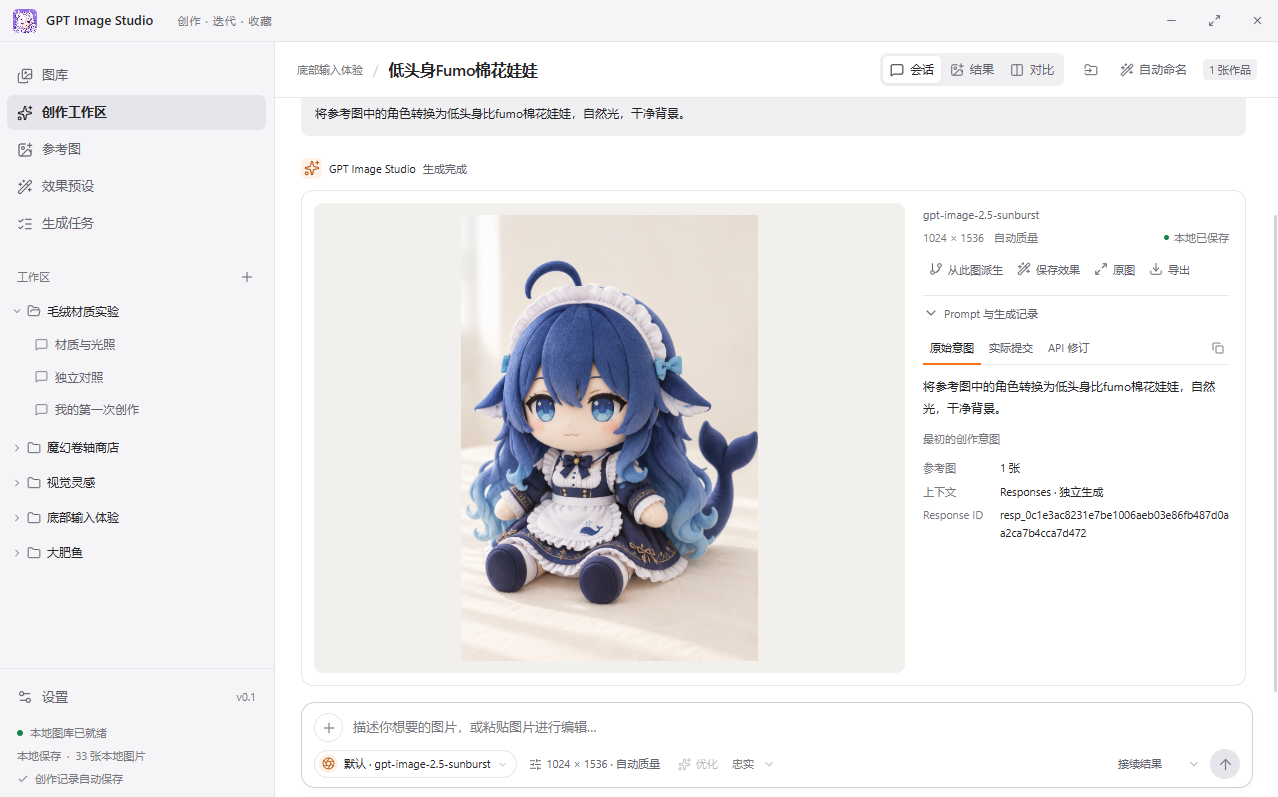
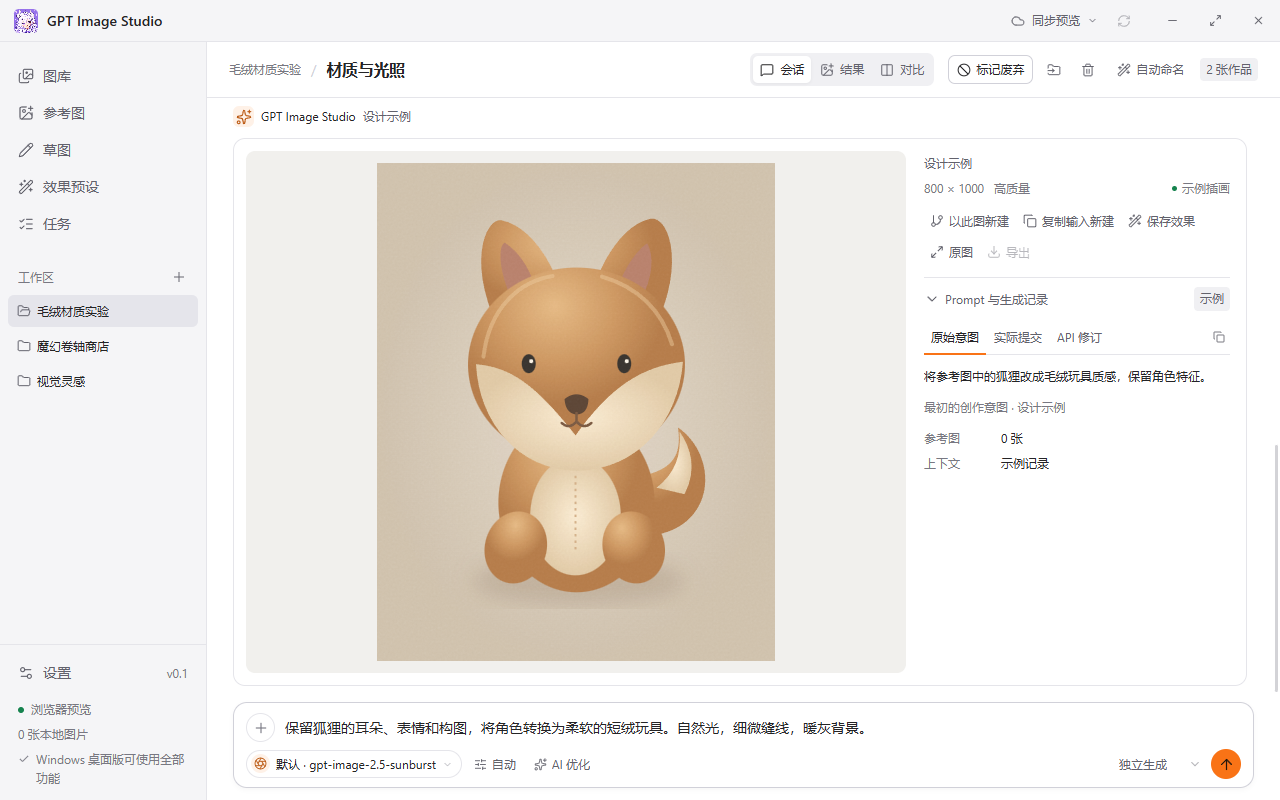
Remove private sync defaults and deployment details

diff --git a/src/SyncSettings.tsx b/src/SyncSettings.tsx
@@ -5,7 +5,7 @@ import { Cloud, LoaderCircle, RefreshCw, Save } from 'lucide-react';
 import { desktop, type Studio } from './useStudio';
 
 import type { SyncConfig, SyncView } from './syncState';
-const initial:SyncConfig={enabled:false,url:'https://gis.inariaimu.synology.me:41658',deviceId:'',direct:true};
+const initial:SyncConfig={enabled:false,url:'',deviceId:'',direct:true};
 const names:Record<string,string>={sessions:'会话',workspaces:'工作区',assets:'图片',presets:'预设',jobs:'任务记录',providers:'模型提供商',sketches:'草图',sketchLibraries:'姿势库'};
 export default function SyncSettings({studio}:{studio:Studio}){
   const view=studio.sync;const [config,setConfig]=useState(initial);const [token,setToken]=useState('');

diff --git a/sync/src/tests.rs b/sync/src/tests.rs
@@ -93,7 +93,7 @@ fn rejects_unsafe_paths_and_public_plain_http() {
     ] {
         assert!(client::normalize_url(u).is_err());
     }
-    assert!(client::normalize_url("http://192.168.1.127:18081").is_ok());
+    assert!(client::normalize_url("http://192.168.0.10:8080").is_ok());
     assert_eq!(
         client::normalize_url("https://example.com/studio-sync/").unwrap(),
         "https://example.com/studio-sync"

diff --git a/sync/README.md b/sync/README.md
@@ -16,26 +16,28 @@ cargo test --manifest-path sync/Cargo.toml --release --locked --features server 
 npm run desktop:build -- -- --locked
 ```
 
-Linux 在包含本目录的构建容器中执行 `cargo build --release --locked --features server --bin studio-sync-server`。运行镜像仅复制 Linux release 二进制，使用本目录 Dockerfile。DS1618+ 的当前内核不支持 CFS CPU 配额，因此 Compose 使用 CPU 权重与两个运行线程。Compose 中 UID/GID、宿主内网地址与现有代理网络须按部署环境调整；不挂载 Docker socket。`data/` 需对运行 UID 可写。在本机群晖上为本项目新建的 data、secrets 目录设置所有者 1026:100 和 0700；避免继承仅管理员组可访问的共享文件夹 ACL。编译缓存使用专用 Docker 卷 gpt-img-studio-sync-build-target，避免共享目录 ACL 导致 LLVM 无法判断输出文件可写。
+Linux 在包含本目录的构建容器中执行 `cargo build --release --locked --features server --bin studio-sync-server`。用本目录的 Dockerfile 将 Linux release 二进制打包进运行镜像。按部署环境调整 Compose 的 UID/GID 和代理网络。`data/` 需对运行用户可写，`secrets/` 需限制访问并以只读方式挂载。
 
 `STUDIO_SYNC_TOKENS` 指向 JSON 对象：设备 ID 映射到令牌的 SHA-256 十六进制摘要。使用密码学随机数生成每设备至少 32 字符的令牌；令牌原文只交给对应客户端。文件请求时重新读取，移除映射即可撤销设备。该文件以只读卷挂载、限制文件权限。不得提交真实令牌。
 
 接口：`GET /health`、`POST /v1/push`、`GET /v1/changes?after=N`、`HEAD/PUT/GET /v1/blobs/{sha256}.{extension}`。除 health 外均需 Bearer 令牌；push 的 deviceId 必须匹配令牌。公网必须使用 HTTPS，客户端禁止重定向；内网直连只允许显式私有 IP/本机 HTTP。
 
-## 当前 NAS 部署
+## 部署示例
 
-目标根目录 `/volume2/docker-disk2/gpt-img-studio-sync/`。`compose.yaml` 与 `data/`、`secrets/`、`backups/` 分离。公网地址 `https://gis.inariaimu.synology.me:41658`；局域网 `http://192.168.1.127:18081`。将 `nginx-server.conf` 放入现有 Nginx 的 conf.d 目录，复用 http 层的通配证书与 41658 端口映射。上线前 `nginx -t`，失败将新文件移出 conf.d，成功后 reload。旧 fox `/studio-sync` 入口暂留兼容已有客户端（`nginx-location.conf`），GitLab 仍使用 fox 根路径。
+将 `compose.yaml` 放在部署目录下，分别用 `data/`、`secrets/`、`backups/` 保存数据、凭据和备份。示例公网地址为 `https://sync.example.com`，请换成自己的域名并配置对应的 TLS 证书。Compose 将宿主机端口绑定到 `127.0.0.1:8080`，Nginx 容器通过共享代理网络访问服务。需要局域网直连时，按实际环境设置绑定地址和防火墙。
+
+将 `nginx-server.conf` 加入 Nginx 的 `conf.d`，执行 `nginx -t` 成功后再 reload。需要在现有 HTTPS 站点下提供 `/studio-sync` 路径时，可将 `nginx-location.conf` 加入对应的 `server` 块。
 
 使用 SQLite Backup API 取得一致性数据库；图片为不可变追加文件，可先备份数据库，再复制该快照引用的原图。数据库备份需保留 instance、变更序列、删除标记，并配套备份设备令牌摘要。恢复旧快照导致客户端游标回退时应停止客户端、协调恢复，不假装同步完成。同盘 backups 只是回滚材料，还应复制到另一台服务器。
 
-2026-11-11 升级后，Container Manager 项目为 `studio-sync-v2`，运行容器为 `gpt-img-studio-sync-v2`。运行配置位于 `upgrade-v2-20261111/runtime/compose.yaml`，复用原运行镜像并只读挂载 `upgrade-v2-20261111/studio-sync-server-v2` 覆盖服务二进制；保留原数据、凭据、端口和代理网络 IP。旧容器 `gpt-img-studio-sync` 已停止，配套一致性数据库及回退说明保留在 `upgrade-v2-20261111/rollback/`。SQLite 备份时数据卷需允许创建 WAL 的共享内存文件，源连接仍使用只读模式，先在容器临时目录完成备份与完整性检查再复制到共享目录。所有参与同步的客户端须升级至协议 2 版本。
+SQLite 备份时，数据卷需允许创建 WAL 的共享内存文件。可用只读源连接在容器临时目录完成备份及完整性检查，再将备份复制到目标目录。
 
 ## 接入另一台电脑
 
 使用本版本 Windows release 程序，在“设置 → 多设备同步”导入为该电脑生成的连接 JSON，然后点击“立即同步”。格式如下（真实令牌不应进入 Git）：
 
 ```json
-{"config":{"enabled":true,"url":"https://gis.inariaimu.synology.me:41658","deviceId":"pc-second","direct":true},"token":"<该设备的随机令牌>"}
+{"config":{"enabled":true,"url":"https://sync.example.com","deviceId":"pc-second","direct":true},"token":"<该设备的随机令牌>"}
 ```
 
 标题栏显示同步状态、待上传记录与冲突，可直接“立即同步”或打开同步设置。自动同步每 300 秒尝试一次；关闭自动同步仍可手动同步。手动同步先保存当前会话草稿及排队中的设置；切换窗口不会额外触发自动同步。
@@ -55,7 +57,6 @@ Linux 在包含本目录的构建容器中执行 `cargo build --release --locked
 - 打字、图片生成和自动命名期间延后自动同步；后台不重新提交模型调用。新电脑需配置同一提供商对应的 API Key；Responses 接续仍依赖提供商上下文有效。
 - 图片自动完整下载，无按需缓存/配额回收；远端预览可直接使用原图。
 - 不处理 szurubooru 导入，不包含图库部署；可在下一阶段添加独立导入队列，保持展示图库与 Studio 分离。
-- 合成 HTTP 测试材料位于 `output/sketch-library-20261111/sync-tests/`，验收后按仓库规则移入回收站。
 
 ## 草图库升级
 
